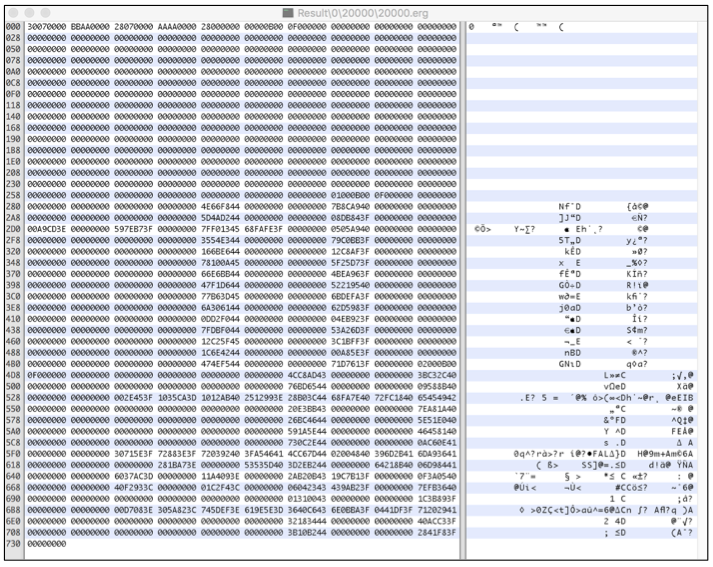
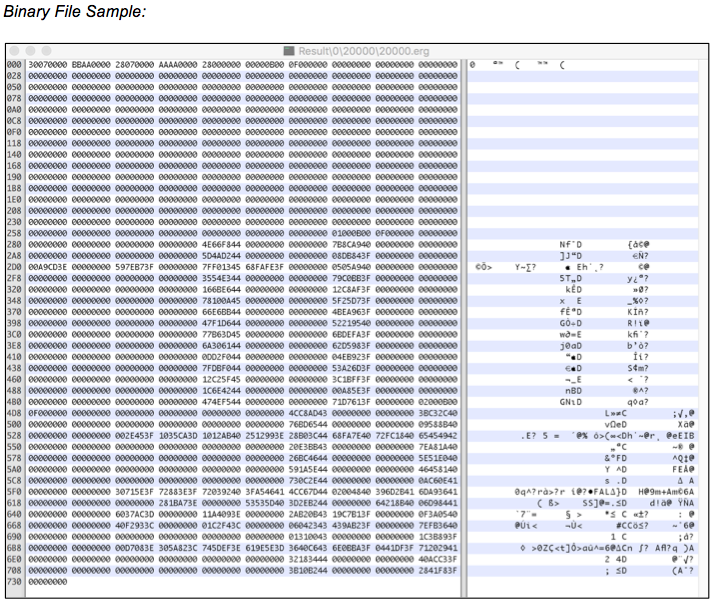
Updates evaluating-the-project-landscape/working-with-sample-data.md
Auto commit by GitBook Editor

diff --git a/evaluating-the-project-landscape/working-with-sample-data.md b/evaluating-the-project-landscape/working-with-sample-data.md
@@ -32,11 +32,7 @@ A database dump file often has the date of backup in the file name, and it must 
 
 Many programs use proprietary file formats that have customized extensions and require a parser to be written. If these are text files, you can view them in a text editor; if they are binary, you may need to use a hex editor.
 
-_Text File Sample \(modified INI format\):_
-
 ![](/evaluating-the-project-landscape/working-with-sample-data/File Backup Sample Text INI.png)
-
-_Binary File Sample:_
 
 ![](/evaluating-the-project-landscape/working-with-sample-data/File Backup Sample Binary.png)
 
@@ -98,8 +94,6 @@ The following list of tools is by no means exhaustive:
   For more information: [https://qbox.io/blog/welcome-to-the-elk-stack-elasticsearch-logstash-kibana](https://qbox.io/blog/welcome-to-the-elk-stack-elasticsearch-logstash-kibana)
 
 * **HeidiSQL: **Use to browse and edit SQL data, as well as create and edit tables, views, procedures, triggers, and scheduled events. HeidiSQL is a powerful and easy client for MySQL, MariaDB, Microsoft SQL Server, and PostgreSQL. For more information: [https://www.heidisql.com/download.php](https://www.heidisql.com/download.php)
-
-
 
 
 
